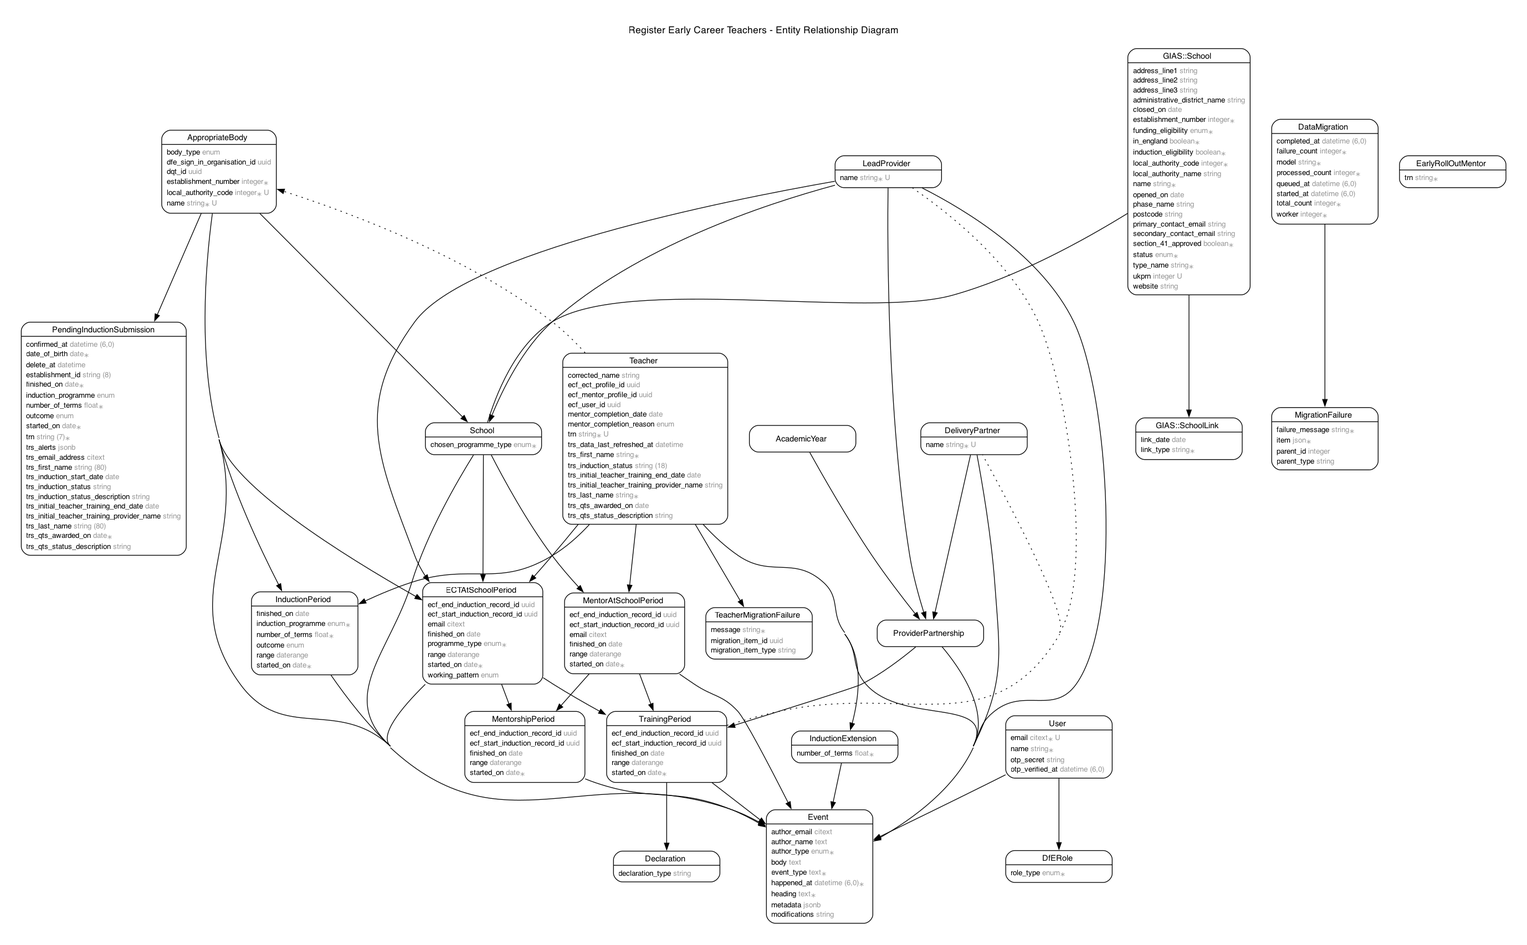
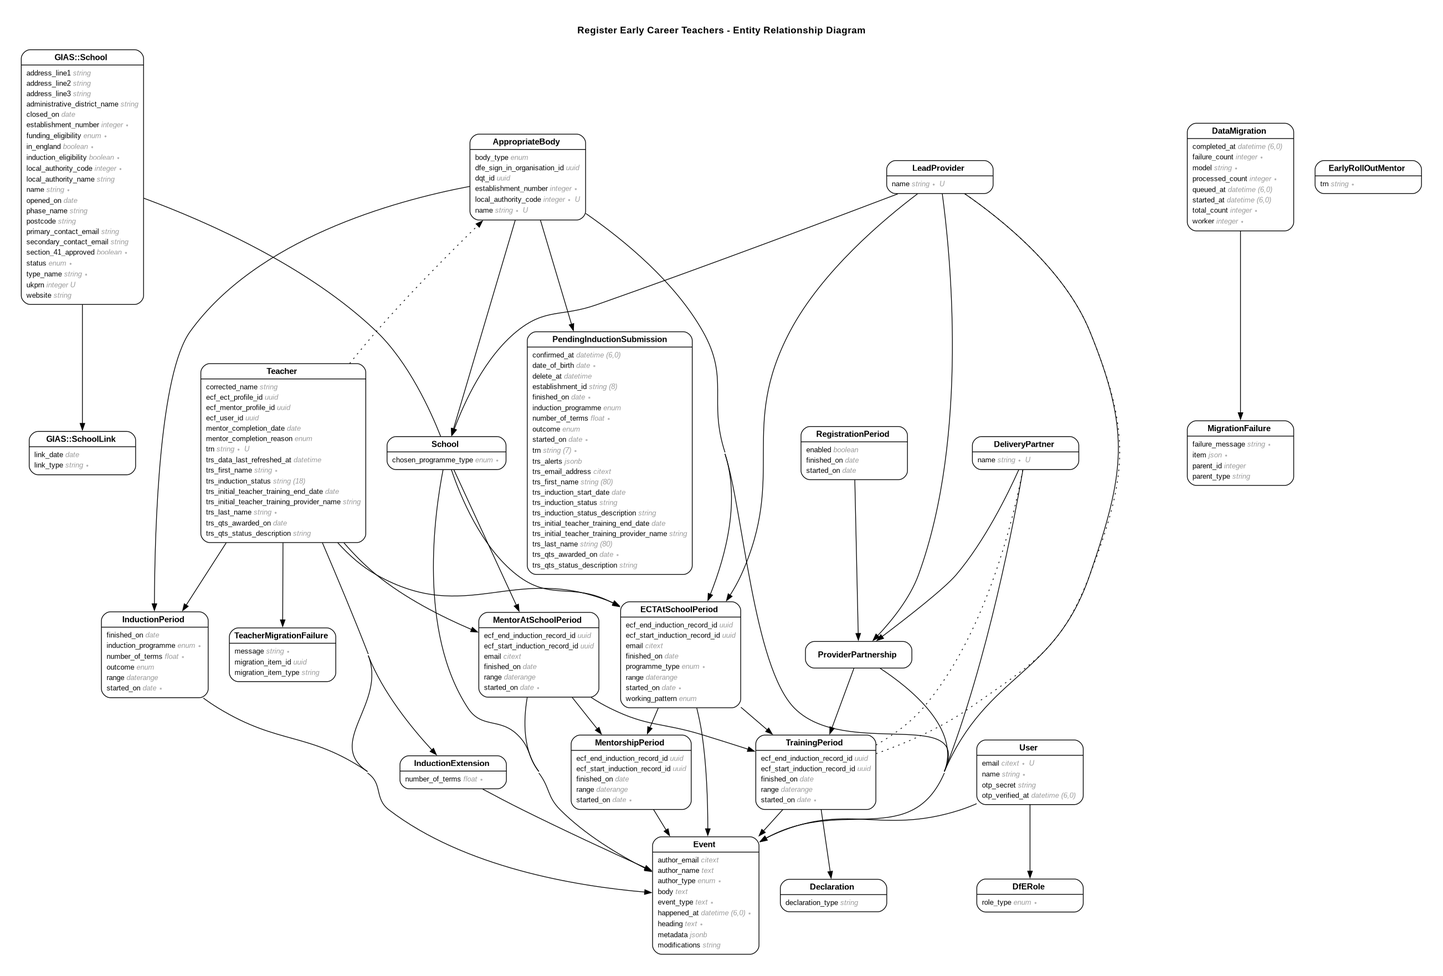
Rename AcademicYear to RegistrationPeriod
This model now holds boundaries of each registration period so the name
academic year isn't a good fit.

diff --git a/db/seeds.rb b/db/seeds.rb
@@ -25,7 +25,7 @@ def describe_mentorship_period(mp)
 end
 
 def describe_provider_partnership(pp)
-  print_seed_info("#{pp.lead_provider.name} (LP) 🤝 #{pp.delivery_partner.name} (DP) in #{pp.academic_year.year}", indent: 2)
+  print_seed_info("#{pp.lead_provider.name} (LP) 🤝 #{pp.delivery_partner.name} (DP) in #{pp.registration_period.year}", indent: 2)
 end
 
 def describe_lead_provider(lp)
@@ -36,8 +36,8 @@ def describe_delivery_partner(dp)
   print_seed_info(dp.name, indent: 2)
 end
 
-def describe_academic_year(ay)
-  print_seed_info(ay.year.to_s, indent: 2)
+def describe_registration_period(ay)
+  print_seed_info("#{ay.year} (running from #{ay.started_on} until #{ay.finished_on})", indent: 2)
 end
 
 def describe_induction_period(ip)
@@ -205,53 +205,54 @@ rising_minds = DeliveryPartner.create!(name: 'Rising Minds Network').tap { |dp| 
 DeliveryPartner.create!(name: 'Proving Potential Teaching School Hub').tap { |dp| describe_delivery_partner(dp) }
 DeliveryPartner.create!(name: 'Harvest Academy').tap { |dp| describe_delivery_partner(dp) }
 
-print_seed_info("Adding academic years")
+print_seed_info("Adding registration periods")
 
-academic_year_2021 = AcademicYear.create!(year: 2021).tap { |ay| describe_academic_year(ay) }
-academic_year_2022 = AcademicYear.create!(year: 2022).tap { |ay| describe_academic_year(ay) }
-academic_year_2023 = AcademicYear.create!(year: 2023).tap { |ay| describe_academic_year(ay) }
-academic_year_2024 = AcademicYear.create!(year: 2024).tap { |ay| describe_academic_year(ay) }
+registration_period_2021 = RegistrationPeriod.create!(year: 2021, started_on: Date.new(2021, 6, 1), finished_on: Date.new(2022, 5, 31), enabled: false).tap { |ay| describe_registration_period(ay) }
+registration_period_2022 = RegistrationPeriod.create!(year: 2022, started_on: Date.new(2022, 6, 1), finished_on: Date.new(2023, 5, 31), enabled: false).tap { |ay| describe_registration_period(ay) }
+registration_period_2023 = RegistrationPeriod.create!(year: 2023, started_on: Date.new(2023, 6, 1), finished_on: Date.new(2024, 5, 31), enabled: true).tap { |ay| describe_registration_period(ay) }
+registration_period_2024 = RegistrationPeriod.create!(year: 2024, started_on: Date.new(2024, 6, 1), finished_on: Date.new(2025, 5, 31), enabled: true).tap { |ay| describe_registration_period(ay) }
+_registration_period_2025 = RegistrationPeriod.create!(year: 2025, started_on: Date.new(2025, 6, 1), finished_on: Date.new(2026, 5, 31), enabled: true).tap { |ay| describe_registration_period(ay) }
 
 print_seed_info("Adding provider partnerships")
 
 grove_artisan_partnership_2021 = ProviderPartnership.create!(
-  academic_year: academic_year_2021,
+  registration_period: registration_period_2021,
   lead_provider: grove_institute,
   delivery_partner: artisan_education_group
 ).tap { |pp| describe_provider_partnership(pp) }
 
 ProviderPartnership.create!(
-  academic_year: academic_year_2022,
+  registration_period: registration_period_2022,
   lead_provider: grove_institute,
   delivery_partner: artisan_education_group
 ).tap { |pp| describe_provider_partnership(pp) }
 
 grove_artisan_partnership_2023 = ProviderPartnership.create!(
-  academic_year: academic_year_2023,
+  registration_period: registration_period_2023,
   lead_provider: grove_institute,
   delivery_partner: artisan_education_group
 ).tap { |pp| describe_provider_partnership(pp) }
 
 meadow_grain_partnership_2022 = ProviderPartnership.create!(
-  academic_year: academic_year_2022,
+  registration_period: registration_period_2022,
   lead_provider: national_meadows_institute,
   delivery_partner: grain_teaching_school_hub
 ).tap { |pp| describe_provider_partnership(pp) }
 
 _meadow_grain_partnership_2023 = ProviderPartnership.create!(
-  academic_year: academic_year_2023,
+  registration_period: registration_period_2023,
   lead_provider: national_meadows_institute,
   delivery_partner: grain_teaching_school_hub
 ).tap { |pp| describe_provider_partnership(pp) }
 
 _wildflower_rising_partnership_2023 = ProviderPartnership.create!(
-  academic_year: academic_year_2023,
+  registration_period: registration_period_2023,
   lead_provider: wildflower_trust,
   delivery_partner: rising_minds
 ).tap { |pp| describe_provider_partnership(pp) }
 
 _wildflower_rising_partnership_2024 = ProviderPartnership.create!(
-  academic_year: academic_year_2024,
+  registration_period: registration_period_2024,
   lead_provider: wildflower_trust,
   delivery_partner: rising_minds
 ).tap { |pp| describe_provider_partnership(pp) }

diff --git a/spec/models/provider_partnership_spec.rb b/spec/models/provider_partnership_spec.rb
@@ -1,6 +1,6 @@
 describe ProviderPartnership do
   describe "associations" do
-    it { is_expected.to belong_to(:academic_year).inverse_of(:provider_partnerships) }
+    it { is_expected.to belong_to(:registration_period).inverse_of(:provider_partnerships) }
     it { is_expected.to belong_to(:lead_provider).inverse_of(:provider_partnerships) }
     it { is_expected.to belong_to(:delivery_partner).inverse_of(:provider_partnerships) }
     it { is_expected.to have_many(:events) }
@@ -9,17 +9,17 @@ describe ProviderPartnership do
   describe "validations" do
     subject { FactoryBot.create(:provider_partnership) }
 
-    it { is_expected.to validate_presence_of(:academic_year_id) }
+    it { is_expected.to validate_presence_of(:registration_period_id) }
     it { is_expected.to validate_presence_of(:lead_provider_id) }
     it { is_expected.to validate_presence_of(:delivery_partner_id) }
 
-    context "uniqueness of academic_year scoped to lead_provider_id and delivery_partner_id" do
-      context "when the provider partnership matches the lead_provider_id, delivery_partner_id and academic_year values
+    context "uniqueness of registration_period scoped to lead_provider_id and delivery_partner_id" do
+      context "when the provider partnership matches the lead_provider_id, delivery_partner_id and registration_period values
                of an existing provider partnership" do
-        subject { FactoryBot.build(:provider_partnership, academic_year_id:, lead_provider_id:, delivery_partner_id:) }
+        subject { FactoryBot.build(:provider_partnership, registration_period_id:, lead_provider_id:, delivery_partner_id:) }
 
         let!(:existing_partnership) { FactoryBot.create(:provider_partnership) }
-        let(:academic_year_id) { existing_partnership.academic_year_id }
+        let(:registration_period_id) { existing_partnership.registration_period_id }
         let(:lead_provider_id) { existing_partnership.lead_provider_id }
         let(:delivery_partner_id) { existing_partnership.delivery_partner_id }
 
@@ -28,27 +28,27 @@ describe ProviderPartnership do
         end
 
         it "add an error" do
-          expect(subject.errors.messages).to include(academic_year_id: ["has already been added"])
+          expect(subject.errors.messages).to include(registration_period_id: ["has already been added"])
         end
       end
     end
   end
 
   describe "scopes" do
-    let!(:ay_1) { FactoryBot.create(:academic_year) }
-    let!(:ay_2) { FactoryBot.create(:academic_year) }
+    let!(:ay_1) { FactoryBot.create(:registration_period) }
+    let!(:ay_2) { FactoryBot.create(:registration_period) }
     let!(:lp_1) { FactoryBot.create(:lead_provider) }
     let!(:lp_2) { FactoryBot.create(:lead_provider) }
     let!(:dp_1) { FactoryBot.create(:delivery_partner) }
     let!(:dp_2) { FactoryBot.create(:delivery_partner) }
-    let!(:partnership_1) { FactoryBot.create(:provider_partnership, academic_year: ay_1, lead_provider: lp_1, delivery_partner: dp_1) }
-    let!(:partnership_2) { FactoryBot.create(:provider_partnership, academic_year: ay_1, lead_provider: lp_1, delivery_partner: dp_2) }
-    let!(:partnership_3) { FactoryBot.create(:provider_partnership, academic_year: ay_1, lead_provider: lp_2, delivery_partner: dp_1) }
-    let!(:partnership_4) { FactoryBot.create(:provider_partnership, academic_year: ay_2, lead_provider: lp_1, delivery_partner: dp_2) }
+    let!(:partnership_1) { FactoryBot.create(:provider_partnership, registration_period: ay_1, lead_provider: lp_1, delivery_partner: dp_1) }
+    let!(:partnership_2) { FactoryBot.create(:provider_partnership, registration_period: ay_1, lead_provider: lp_1, delivery_partner: dp_2) }
+    let!(:partnership_3) { FactoryBot.create(:provider_partnership, registration_period: ay_1, lead_provider: lp_2, delivery_partner: dp_1) }
+    let!(:partnership_4) { FactoryBot.create(:provider_partnership, registration_period: ay_2, lead_provider: lp_1, delivery_partner: dp_2) }
 
-    describe ".for_academic_year" do
+    describe ".for_registration_period" do
       it "returns provider partnerships only for the specified academic year" do
-        expect(described_class.for_academic_year(ay_1.id)).to match_array([partnership_1, partnership_2, partnership_3])
+        expect(described_class.for_registration_period(ay_1.id)).to match_array([partnership_1, partnership_2, partnership_3])
       end
     end
 

diff --git a/db/schema.rb b/db/schema.rb
@@ -10,7 +10,7 @@
 #
 # It's strongly recommended that you check this file into your version control system.
 
-ActiveRecord::Schema[8.0].define(version: 2025_04_11_105110) do
+ActiveRecord::Schema[8.0].define(version: 2025_04_15_162703) do
   # These are extensions that must be enabled in order to support this database
   enable_extension "citext"
   enable_extension "pg_catalog.plpgsql"
@@ -29,12 +29,6 @@ ActiveRecord::Schema[8.0].define(version: 2025_04_11_105110) do
   create_enum "mentor_completion_reason", ["completed_declaration_received", "completed_during_early_roll_out", "started_not_completed"]
   create_enum "programme_type", ["provider_led", "school_led"]
   create_enum "working_pattern", ["part_time", "full_time"]
-
-  create_table "academic_years", primary_key: "year", id: :serial, force: :cascade do |t|
-    t.datetime "created_at", null: false
-    t.datetime "updated_at", null: false
-    t.index ["year"], name: "index_academic_years_on_year", unique: true
-  end
 
   create_table "appropriate_bodies", force: :cascade do |t|
     t.string "name", null: false
@@ -359,15 +353,24 @@ ActiveRecord::Schema[8.0].define(version: 2025_04_11_105110) do
   end
 
   create_table "provider_partnerships", force: :cascade do |t|
-    t.bigint "academic_year_id", null: false
+    t.bigint "registration_period_id", null: false
     t.bigint "lead_provider_id", null: false
     t.bigint "delivery_partner_id", null: false
     t.datetime "created_at", null: false
     t.datetime "updated_at", null: false
-    t.index ["academic_year_id", "lead_provider_id", "delivery_partner_id"], name: "yearly_unique_provider_partnerships", unique: true
-    t.index ["academic_year_id"], name: "index_provider_partnerships_on_academic_year_id"
     t.index ["delivery_partner_id"], name: "index_provider_partnerships_on_delivery_partner_id"
     t.index ["lead_provider_id"], name: "index_provider_partnerships_on_lead_provider_id"
+    t.index ["registration_period_id", "lead_provider_id", "delivery_partner_id"], name: "yearly_unique_provider_partnerships", unique: true
+    t.index ["registration_period_id"], name: "index_provider_partnerships_on_registration_period_id"
+  end
+
+  create_table "registration_periods", primary_key: "year", id: :serial, force: :cascade do |t|
+    t.datetime "created_at", null: false
+    t.datetime "updated_at", null: false
+    t.date "started_on"
+    t.date "finished_on"
+    t.boolean "enabled", default: false
+    t.index ["year"], name: "index_registration_periods_on_year", unique: true
   end
 
   create_table "schools", force: :cascade do |t|
@@ -595,9 +598,9 @@ ActiveRecord::Schema[8.0].define(version: 2025_04_11_105110) do
   add_foreign_key "mentorship_periods", "ect_at_school_periods"
   add_foreign_key "mentorship_periods", "mentor_at_school_periods"
   add_foreign_key "pending_induction_submissions", "appropriate_bodies"
-  add_foreign_key "provider_partnerships", "academic_years", primary_key: "year"
   add_foreign_key "provider_partnerships", "delivery_partners"
   add_foreign_key "provider_partnerships", "lead_providers"
+  add_foreign_key "provider_partnerships", "registration_periods", primary_key: "year"
   add_foreign_key "schools", "appropriate_bodies", column: "chosen_appropriate_body_id"
   add_foreign_key "schools", "gias_schools", column: "urn", primary_key: "urn"
   add_foreign_key "schools", "lead_providers", column: "chosen_lead_provider_id"

diff --git a/spec/migration/builders/ect/training_periods_spec.rb b/spec/migration/builders/ect/training_periods_spec.rb
@@ -1,16 +1,16 @@
 describe Builders::ECT::TrainingPeriods do
   subject(:service) { described_class.new(teacher:, training_period_data:) }
 
-  let(:academic_year) { FactoryBot.create(:academic_year) }
-  let(:partnership_1) { FactoryBot.create(:provider_partnership, academic_year:) }
-  let(:partnership_2) { FactoryBot.create(:provider_partnership, academic_year:) }
+  let(:registration_period) { FactoryBot.create(:registration_period) }
+  let(:partnership_1) { FactoryBot.create(:provider_partnership, registration_period:) }
+  let(:partnership_2) { FactoryBot.create(:provider_partnership, registration_period:) }
   let(:school_1) { FactoryBot.create(:school, :independent, urn: "123456") }
   let(:school_2) { FactoryBot.create(:school, :independent, urn: "987654") }
   let(:teacher) { FactoryBot.create(:teacher) }
   let!(:school_period_1) { FactoryBot.create(:ect_at_school_period, started_on: 1.year.ago.to_date, finished_on: 1.month.ago.to_date, teacher:, school: school_1) }
   let!(:school_period_2) { FactoryBot.create(:ect_at_school_period, started_on: 1.month.ago.to_date, finished_on: nil, teacher:, school: school_2) }
-  let(:training_period_1) { FactoryBot.build(:training_period_data, cohort_year: academic_year.year, lead_provider: partnership_1.lead_provider.name, delivery_partner: partnership_1.delivery_partner.name, start_date: 1.year.ago.to_date, end_date: 1.month.ago.to_date) }
-  let(:training_period_2) { FactoryBot.build(:training_period_data, cohort_year: academic_year.year, lead_provider: partnership_2.lead_provider.name, delivery_partner: partnership_2.delivery_partner.name, start_date: 1.month.ago.to_date, end_date: nil) }
+  let(:training_period_1) { FactoryBot.build(:training_period_data, cohort_year: registration_period.year, lead_provider: partnership_1.lead_provider.name, delivery_partner: partnership_1.delivery_partner.name, start_date: 1.year.ago.to_date, end_date: 1.month.ago.to_date) }
+  let(:training_period_2) { FactoryBot.build(:training_period_data, cohort_year: registration_period.year, lead_provider: partnership_2.lead_provider.name, delivery_partner: partnership_2.delivery_partner.name, start_date: 1.month.ago.to_date, end_date: nil) }
   let(:training_period_data) { [training_period_1, training_period_2] }
 
   describe "#build" do
@@ -38,7 +38,7 @@ describe Builders::ECT::TrainingPeriods do
     end
 
     context "when there is no ECTAtSchoolPeriod that contains the training dates" do
-      let(:training_period_1) { FactoryBot.build(:training_period_data, cohort_year: academic_year.year, lead_provider: partnership_1.lead_provider.name, delivery_partner: partnership_1.delivery_partner.name, start_date: 14.months.ago.to_date, end_date: 1.month.ago.to_date) }
+      let(:training_period_1) { FactoryBot.build(:training_period_data, cohort_year: registration_period.year, lead_provider: partnership_1.lead_provider.name, delivery_partner: partnership_1.delivery_partner.name, start_date: 14.months.ago.to_date, end_date: 1.month.ago.to_date) }
 
       it "creates a TeacherMigrationFailure record" do
         expect {

diff --git a/spec/migration/builders/mentor/training_periods_spec.rb b/spec/migration/builders/mentor/training_periods_spec.rb
@@ -1,16 +1,16 @@
 describe Builders::Mentor::TrainingPeriods do
   subject(:service) { described_class.new(teacher:, training_period_data:) }
 
-  let(:academic_year) { FactoryBot.create(:academic_year) }
-  let(:partnership_1) { FactoryBot.create(:provider_partnership, academic_year:) }
-  let(:partnership_2) { FactoryBot.create(:provider_partnership, academic_year:) }
+  let(:registration_period) { FactoryBot.create(:registration_period) }
+  let(:partnership_1) { FactoryBot.create(:provider_partnership, registration_period:) }
+  let(:partnership_2) { FactoryBot.create(:provider_partnership, registration_period:) }
   let(:school_1) { FactoryBot.create(:school, urn: "123456") }
   let(:school_2) { FactoryBot.create(:school, urn: "987654") }
   let(:teacher) { FactoryBot.create(:teacher) }
   let!(:school_period_1) { FactoryBot.create(:mentor_at_school_period, started_on: 1.year.ago.to_date, finished_on: 1.month.ago.to_date, teacher:, school: school_1) }
   let!(:school_period_2) { FactoryBot.create(:mentor_at_school_period, started_on: 1.month.ago.to_date, finished_on: nil, teacher:, school: school_2) }
-  let(:training_period_1) { FactoryBot.build(:training_period_data, cohort_year: academic_year.year, lead_provider: partnership_1.lead_provider.name, delivery_partner: partnership_1.delivery_partner.name, start_date: 1.year.ago.to_date, end_date: 1.month.ago.to_date) }
-  let(:training_period_2) { FactoryBot.build(:training_period_data, cohort_year: academic_year.year, lead_provider: partnership_2.lead_provider.name, delivery_partner: partnership_2.delivery_partner.name, start_date: 1.month.ago.to_date, end_date: nil) }
+  let(:training_period_1) { FactoryBot.build(:training_period_data, cohort_year: registration_period.year, lead_provider: partnership_1.lead_provider.name, delivery_partner: partnership_1.delivery_partner.name, start_date: 1.year.ago.to_date, end_date: 1.month.ago.to_date) }
+  let(:training_period_2) { FactoryBot.build(:training_period_data, cohort_year: registration_period.year, lead_provider: partnership_2.lead_provider.name, delivery_partner: partnership_2.delivery_partner.name, start_date: 1.month.ago.to_date, end_date: nil) }
   let(:training_period_data) { [training_period_1, training_period_2] }
 
   describe "#build" do
@@ -38,7 +38,7 @@ describe Builders::Mentor::TrainingPeriods do
     end
 
     context "when there is no MentorAtSchoolPeriod that contains the training dates" do
-      let(:training_period_1) { FactoryBot.build(:training_period_data, cohort_year: academic_year.year, lead_provider: partnership_1.lead_provider.name, delivery_partner: partnership_1.delivery_partner.name, start_date: 14.months.ago.to_date, end_date: 1.month.ago.to_date) }
+      let(:training_period_1) { FactoryBot.build(:training_period_data, cohort_year: registration_period.year, lead_provider: partnership_1.lead_provider.name, delivery_partner: partnership_1.delivery_partner.name, start_date: 14.months.ago.to_date, end_date: 1.month.ago.to_date) }
 
       it "creates a TeacherMigrationFailure record" do
         expect {

diff --git a/spec/views/schools/ects/show.html.erb_spec.rb b/spec/views/schools/ects/show.html.erb_spec.rb
@@ -1,5 +1,5 @@
 RSpec.describe 'schools/ects/show.html.erb' do
-  let(:academic_year) { FactoryBot.create(:academic_year) }
+  let(:registration_period) { FactoryBot.create(:registration_period) }
   let!(:current_ect_period) do
     FactoryBot.create(:ect_at_school_period,
                       :teaching_school_hub_ab,
@@ -15,7 +15,7 @@ RSpec.describe 'schools/ects/show.html.erb' do
   end
   let(:lead_provider) { FactoryBot.create(:lead_provider, name: 'Ambition institute') }
   let(:delivery_partner) { FactoryBot.create(:delivery_partner) }
-  let(:provider_partnership) { FactoryBot.create(:provider_partnership, lead_provider:, delivery_partner:, academic_year:) }
+  let(:provider_partnership) { FactoryBot.create(:provider_partnership, lead_provider:, delivery_partner:, registration_period:) }
   let(:appropriate_body) { FactoryBot.create(:appropriate_body, name: 'Alpha Teaching School Hub') }
   let(:teacher) { FactoryBot.create(:teacher, trs_first_name: 'Barry', trs_last_name: 'White', corrected_name: 'Baz White') }
   let(:previous_school) { FactoryBot.create(:school, urn: '123456') }

diff --git a/app/models/provider_partnership.rb b/app/models/provider_partnership.rb
@@ -1,12 +1,12 @@
 class ProviderPartnership < ApplicationRecord
   # Associations
-  belongs_to :academic_year, inverse_of: :provider_partnerships
+  belongs_to :registration_period, inverse_of: :provider_partnerships
   belongs_to :lead_provider, inverse_of: :provider_partnerships
   belongs_to :delivery_partner, inverse_of: :provider_partnerships
   has_many :events
 
   # Validations
-  validates :academic_year_id,
+  validates :registration_period_id,
             presence: true,
             uniqueness: { scope: %i[lead_provider_id delivery_partner_id],
                           message: "has already been added" }
@@ -18,7 +18,7 @@ class ProviderPartnership < ApplicationRecord
             presence: true
 
   # Scopes
-  scope :for_academic_year, ->(year) { where(academic_year_id: year) }
+  scope :for_registration_period, ->(year) { where(registration_period_id: year) }
   scope :for_lead_provider, ->(lead_provider_id) { where(lead_provider_id:) }
   scope :for_delivery_partner, ->(delivery_partner_id) { where(delivery_partner_id:) }
 end

diff --git a/app/migration/migrators/provider_partnership.rb b/app/migration/migrators/provider_partnership.rb
@@ -13,7 +13,7 @@ module Migrators
     end
 
     def self.dependencies
-      %i[academic_year lead_provider delivery_partner]
+      %i[registration_period lead_provider delivery_partner]
     end
 
     def self.reset!
@@ -26,7 +26,7 @@ module Migrators
       migrate(self.class.provider_relationships.includes(:lead_provider, :delivery_partner, :cohort)) do |provider_relationship|
         ::ProviderPartnership.create!(lead_provider: ::LeadProvider.find_by!(name: provider_relationship.lead_provider.name),
                                       delivery_partner: ::DeliveryPartner.find_by!(name: provider_relationship.delivery_partner.name),
-                                      academic_year: ::AcademicYear.find(provider_relationship.cohort.start_year))
+                                      registration_period: ::RegistrationPeriod.find(provider_relationship.cohort.start_year))
       end
     end
   end

diff --git a/app/migration/migrators/registration_period.rb b/app/migration/migrators/registration_period.rb
@@ -1,11 +1,11 @@
 module Migrators
-  class AcademicYear < Migrators::Base
+  class RegistrationPeriod < Migrators::Base
     def self.record_count
       cohorts.count
     end
 
     def self.model
-      :academic_year
+      :registration_period
     end
 
     def self.cohorts
@@ -14,13 +14,13 @@ module Migrators
 
     def self.reset!
       if Rails.application.config.enable_migration_testing
-        ::AcademicYear.connection.execute("TRUNCATE #{::AcademicYear.table_name} RESTART IDENTITY CASCADE")
+        ::RegistrationPeriod.connection.execute("TRUNCATE #{::RegistrationPeriod.table_name} RESTART IDENTITY CASCADE")
       end
     end
 
     def migrate!
       migrate(self.class.cohorts) do |cohort|
-        ::AcademicYear.create!(id: cohort.start_year)
+        ::RegistrationPeriod.create!(id: cohort.start_year)
       end
     end
   end

diff --git a/app/migration/builders/mentor/training_periods.rb b/app/migration/builders/mentor/training_periods.rb
@@ -17,7 +17,7 @@ module Builders
 
           provider_partnership = ::ProviderPartnership.where(lead_provider: ::LeadProvider.find_by!(name: period.lead_provider),
                                                              delivery_partner: ::DeliveryPartner.find_by!(name: period.delivery_partner),
-                                                             academic_year_id: period.cohort_year).first
+                                                             registration_period_id: period.cohort_year).first
 
           period_dates = period_date.new(started_on: period.start_date, finished_on: period.end_date)
           mentor_at_school_period = teacher.mentor_at_school_periods.containing_period(period_dates).first

diff --git a/app/migration/builders/ect/training_periods.rb b/app/migration/builders/ect/training_periods.rb
@@ -17,7 +17,7 @@ module Builders
 
           provider_partnership = ::ProviderPartnership.where(lead_provider: ::LeadProvider.find_by!(name: period.lead_provider),
                                                              delivery_partner: ::DeliveryPartner.find_by!(name: period.delivery_partner),
-                                                             academic_year_id: period.cohort_year).first
+                                                             registration_period_id: period.cohort_year).first
 
           period_dates = period_date.new(started_on: period.start_date, finished_on: period.end_date)
           ect_at_school_period = teacher.ect_at_school_periods.containing_period(period_dates).first

diff --git a/spec/models/registration_period_spec.rb b/spec/models/registration_period_spec.rb
@@ -1,10 +1,10 @@
-describe AcademicYear do
+describe RegistrationPeriod do
   describe "associations" do
     it { is_expected.to have_many(:provider_partnerships) }
   end
 
   describe "validations" do
-    subject { FactoryBot.build(:academic_year) }
+    subject { FactoryBot.build(:registration_period) }
 
     it { is_expected.to validate_presence_of(:year) }
     it { is_expected.to validate_uniqueness_of(:year) }
